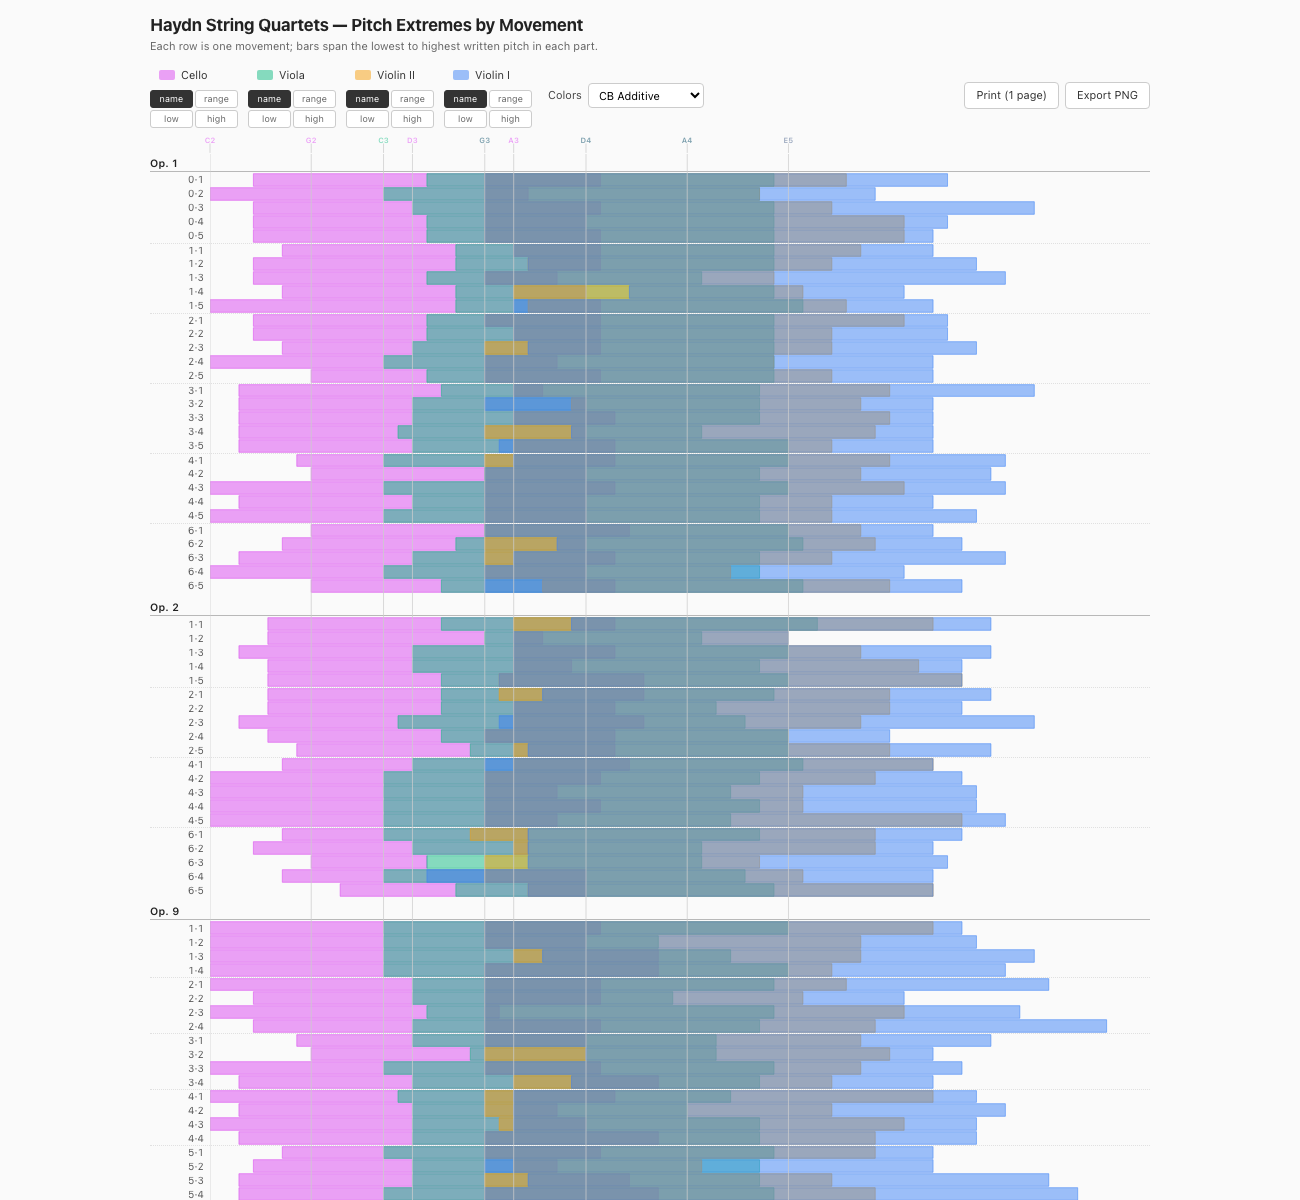
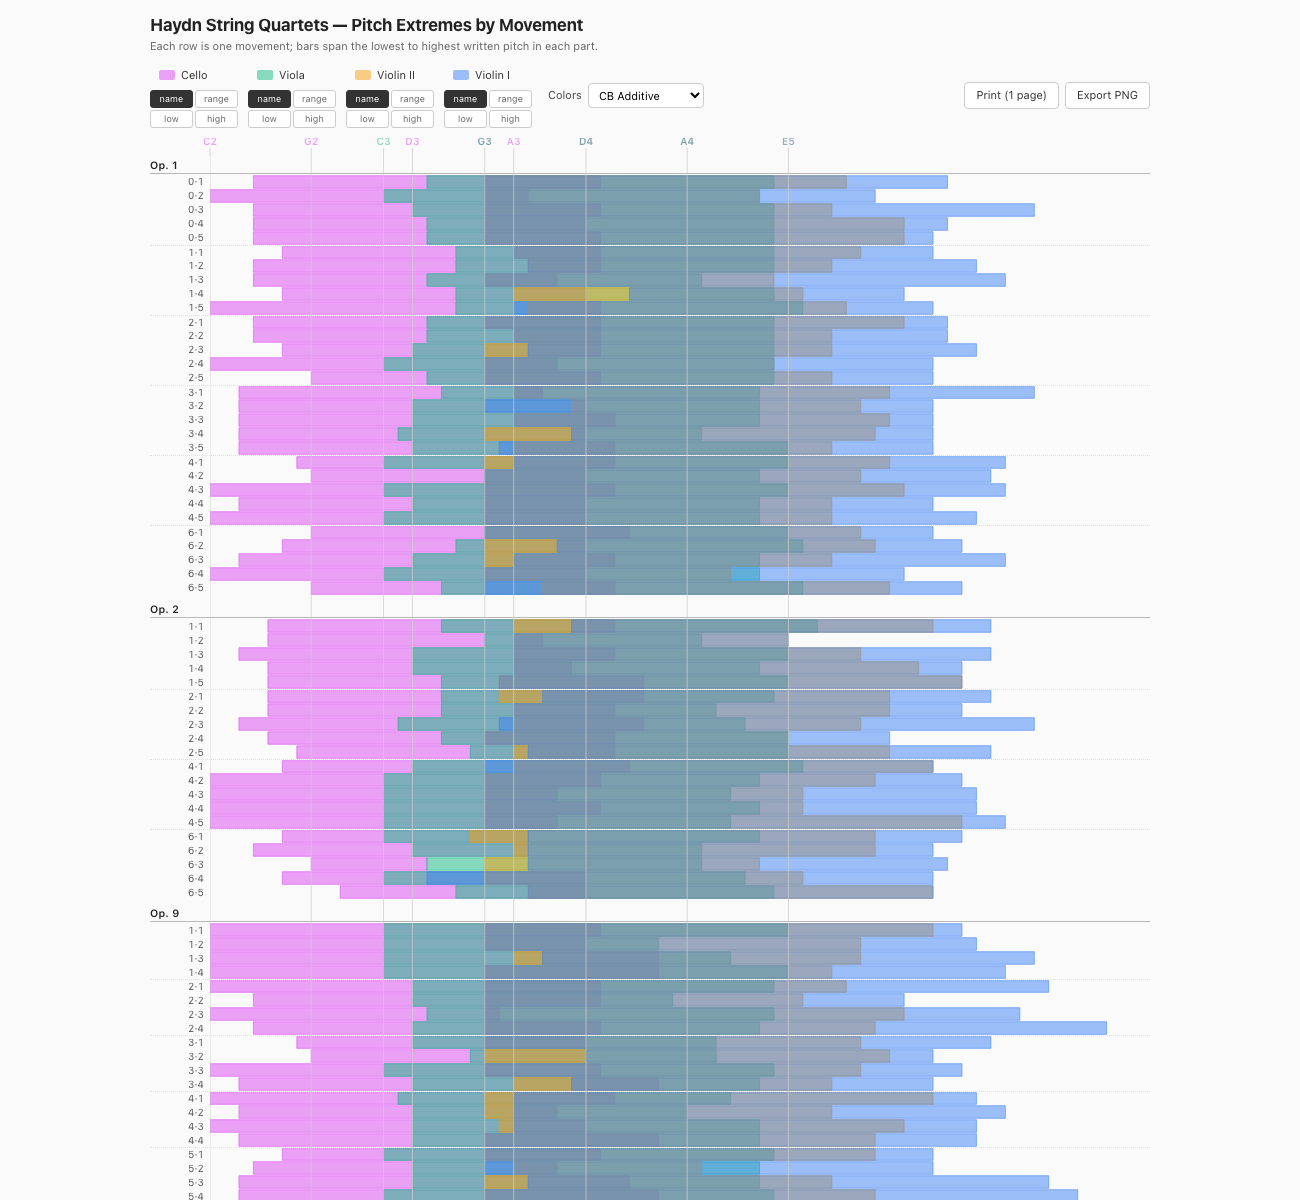
Bigger axis labels on mobile, stack tight pairs to avoid collision
Labels are now HTML spans (CSS font-sized, never distorted by the SVG
non-uniform aspect stretch on narrow viewports) — the SVG carries
only the short tick lines that bridge each label down to bg-lines.

Mobile: bumped to 12px so labels match the row/opus label scale.
But C3↔D3 and G3↔A3 sit only 2 semitones apart, which is narrower
than the glyph width at 12px in a 400px viewport — D3 and A3 now
stack onto a second row to keep things legible.

Desktop: unchanged single-row layout (the 940px-wide bars area gives
each label plenty of room).

diff --git a/index.html b/index.html
@@ -140,7 +140,7 @@ h1 { font-size: 17px; margin: 0 0 2px; letter-spacing: -0.01em; }
 .axis-wrap {
   position: sticky;
   top: 0;
-  height: 18px;
+  height: 20px;
   margin-bottom: 0;
   background: rgba(250, 250, 250, 0.96);
   z-index: 10;
@@ -148,14 +148,35 @@ h1 { font-size: 17px; margin: 0 0 2px; letter-spacing: -0.01em; }
   -webkit-backdrop-filter: blur(4px);
 }
 .axis-spacer { display: none; }
-.axis-svg {
+/* Labels are HTML spans (CSS-sized, never distorted) over the top of the
+   axis bar; the SVG sits in a thin strip along the bottom holding only the
+   short tick lines that connect each label to the bg-lines below. */
+.axis-labels {
   position: absolute;
   top: 0;
+  left: var(--label-w);
+  right: 0;
+  height: 12px;
+  pointer-events: none;
+  overflow: visible;
+}
+.axis-lbl {
+  position: absolute;
+  top: 0;
+  transform: translateX(-50%);
+  font-size: 10px;
+  font-weight: 600;
+  line-height: 1;
+  white-space: nowrap;
+  font-variant-numeric: tabular-nums;
+}
+.axis-svg {
+  position: absolute;
   bottom: 0;
   left: var(--label-w);
   right: 0;
   width: auto;
-  height: auto;
+  height: 8px;
   display: block;
   overflow: visible;
 }
@@ -306,6 +327,14 @@ h1 { font-size: 17px; margin: 0 0 2px; letter-spacing: -0.01em; }
   h1 { font-size: 15px; }
   .legend-row { font-size: 10px; gap: 10px; }
   .print-btn { display: none; }
+  /* Bump axis labels so they're at least as tall as the row/opus labels.
+     Stack close-pair labels (D3, A3 — only 2 semitones from their neighbor)
+     onto a second row so they don't visually collide in this narrow viewport. */
+  .axis-wrap { height: 32px; }
+  .axis-labels { height: 26px; }
+  .axis-lbl { font-size: 12px; }
+  .axis-lbl.axis-lbl-r2 { top: 13px; }
+  .axis-svg { height: 6px; }
 }
 
 @media print {
@@ -422,6 +451,7 @@ h1 { font-size: 17px; margin: 0 0 2px; letter-spacing: -0.01em; }
   </div>
   <div class="axis-wrap">
     <div class="axis-spacer"></div>
+    <div id="axis-labels" class="axis-labels" aria-hidden="true"></div>
     <svg id="axis" class="axis-svg" preserveAspectRatio="none" aria-hidden="true"></svg>
   </div>
 </header>
@@ -765,16 +795,19 @@ h1 { font-size: 17px; margin: 0 0 2px; letter-spacing: -0.01em; }
   // Open strings for Cello (C2 G2 D3 A3), Viola (C3 G3 D4 A4), Violin (G3 D4 A4 E5),
   // unique pitches. The `parts` list is in canonical paint order (vc → va → v2 → v1)
   // so the blended color matches the actual on-screen overlap.
+  // `row` controls vertical layering on narrow viewports: pitches only
+  // 2 semitones apart (C3↔D3, G3↔A3) would otherwise overlap visually,
+  // so the second of each tight pair stacks below.
   const OPEN_STRINGS = [
-    { midi: 36, name: 'C2', parts: ['vc'] },
-    { midi: 43, name: 'G2', parts: ['vc'] },
-    { midi: 48, name: 'C3', parts: ['va'] },
-    { midi: 50, name: 'D3', parts: ['vc'] },
-    { midi: 55, name: 'G3', parts: ['va', 'v2', 'v1'] },
-    { midi: 57, name: 'A3', parts: ['vc'] },
-    { midi: 62, name: 'D4', parts: ['va', 'v2', 'v1'] },
-    { midi: 69, name: 'A4', parts: ['va', 'v2', 'v1'] },
-    { midi: 76, name: 'E5', parts: ['v2', 'v1'] },
+    { midi: 36, name: 'C2', parts: ['vc'], row: 1 },
+    { midi: 43, name: 'G2', parts: ['vc'], row: 1 },
+    { midi: 48, name: 'C3', parts: ['va'], row: 1 },
+    { midi: 50, name: 'D3', parts: ['vc'], row: 2 },
+    { midi: 55, name: 'G3', parts: ['va', 'v2', 'v1'], row: 1 },
+    { midi: 57, name: 'A3', parts: ['vc'], row: 2 },
+    { midi: 62, name: 'D4', parts: ['va', 'v2', 'v1'], row: 1 },
+    { midi: 69, name: 'A4', parts: ['va', 'v2', 'v1'], row: 1 },
+    { midi: 76, name: 'E5', parts: ['v2', 'v1'], row: 1 },
   ];
 
   // Resolve CSS-var part colors once, then blend each open-string's color the
@@ -823,20 +856,25 @@ h1 { font-size: 17px; margin: 0 0 2px; letter-spacing: -0.01em; }
     return o;
   }).filter(r => r._id);
 
-  // Render shared pitch axis — colored labels. The vertical rules themselves
-  // are drawn in a single background-layer SVG (#bg-lines) that spans the
-  // whole grid, so they're continuous through opus headings and gaps.
+  // Render the shared pitch axis. Labels are HTML spans (CSS-controlled
+  // font-size, never distorted by the SVG's non-uniform aspect stretch on
+  // narrow viewports); the SVG carries only the short tick lines that
+  // bridge each label to the bg-lines layer below.
   const axis = document.getElementById('axis');
-  axis.setAttribute('viewBox', `0 0 ${SVG_W} 18`);
+  const axisLabels = document.getElementById('axis-labels');
+  axis.setAttribute('viewBox', `0 0 ${SVG_W} 8`);
   function renderAxisLabels() {
-    let html = '';
+    let svgHTML = '';
+    let labelsHTML = '';
     for (const s of OPEN_STRINGS) {
       const x = xFor(s.midi);
-      html +=
-        `<line x1="${x.toFixed(2)}" y1="8" x2="${x.toFixed(2)}" y2="18" class="open-string"/>` +
-        `<text x="${x.toFixed(2)}" y="7" font-size="8" font-weight="600" fill="${s.color}" text-anchor="middle">${s.name}</text>`;
+      const xPct = ((s.midi - MIDI_LOW) / RANGE) * 100;
+      svgHTML += `<line x1="${x.toFixed(2)}" y1="0" x2="${x.toFixed(2)}" y2="8" class="open-string"/>`;
+      const rowCls = s.row === 2 ? ' axis-lbl-r2' : '';
+      labelsHTML += `<span class="axis-lbl${rowCls}" style="left:${xPct.toFixed(2)}%;color:${s.color}">${s.name}</span>`;
     }
-    axis.innerHTML = html;
+    axis.innerHTML = svgHTML;
+    axisLabels.innerHTML = labelsHTML;
   }
 
   // Continuous full-height rules behind the grid (palette-independent).
